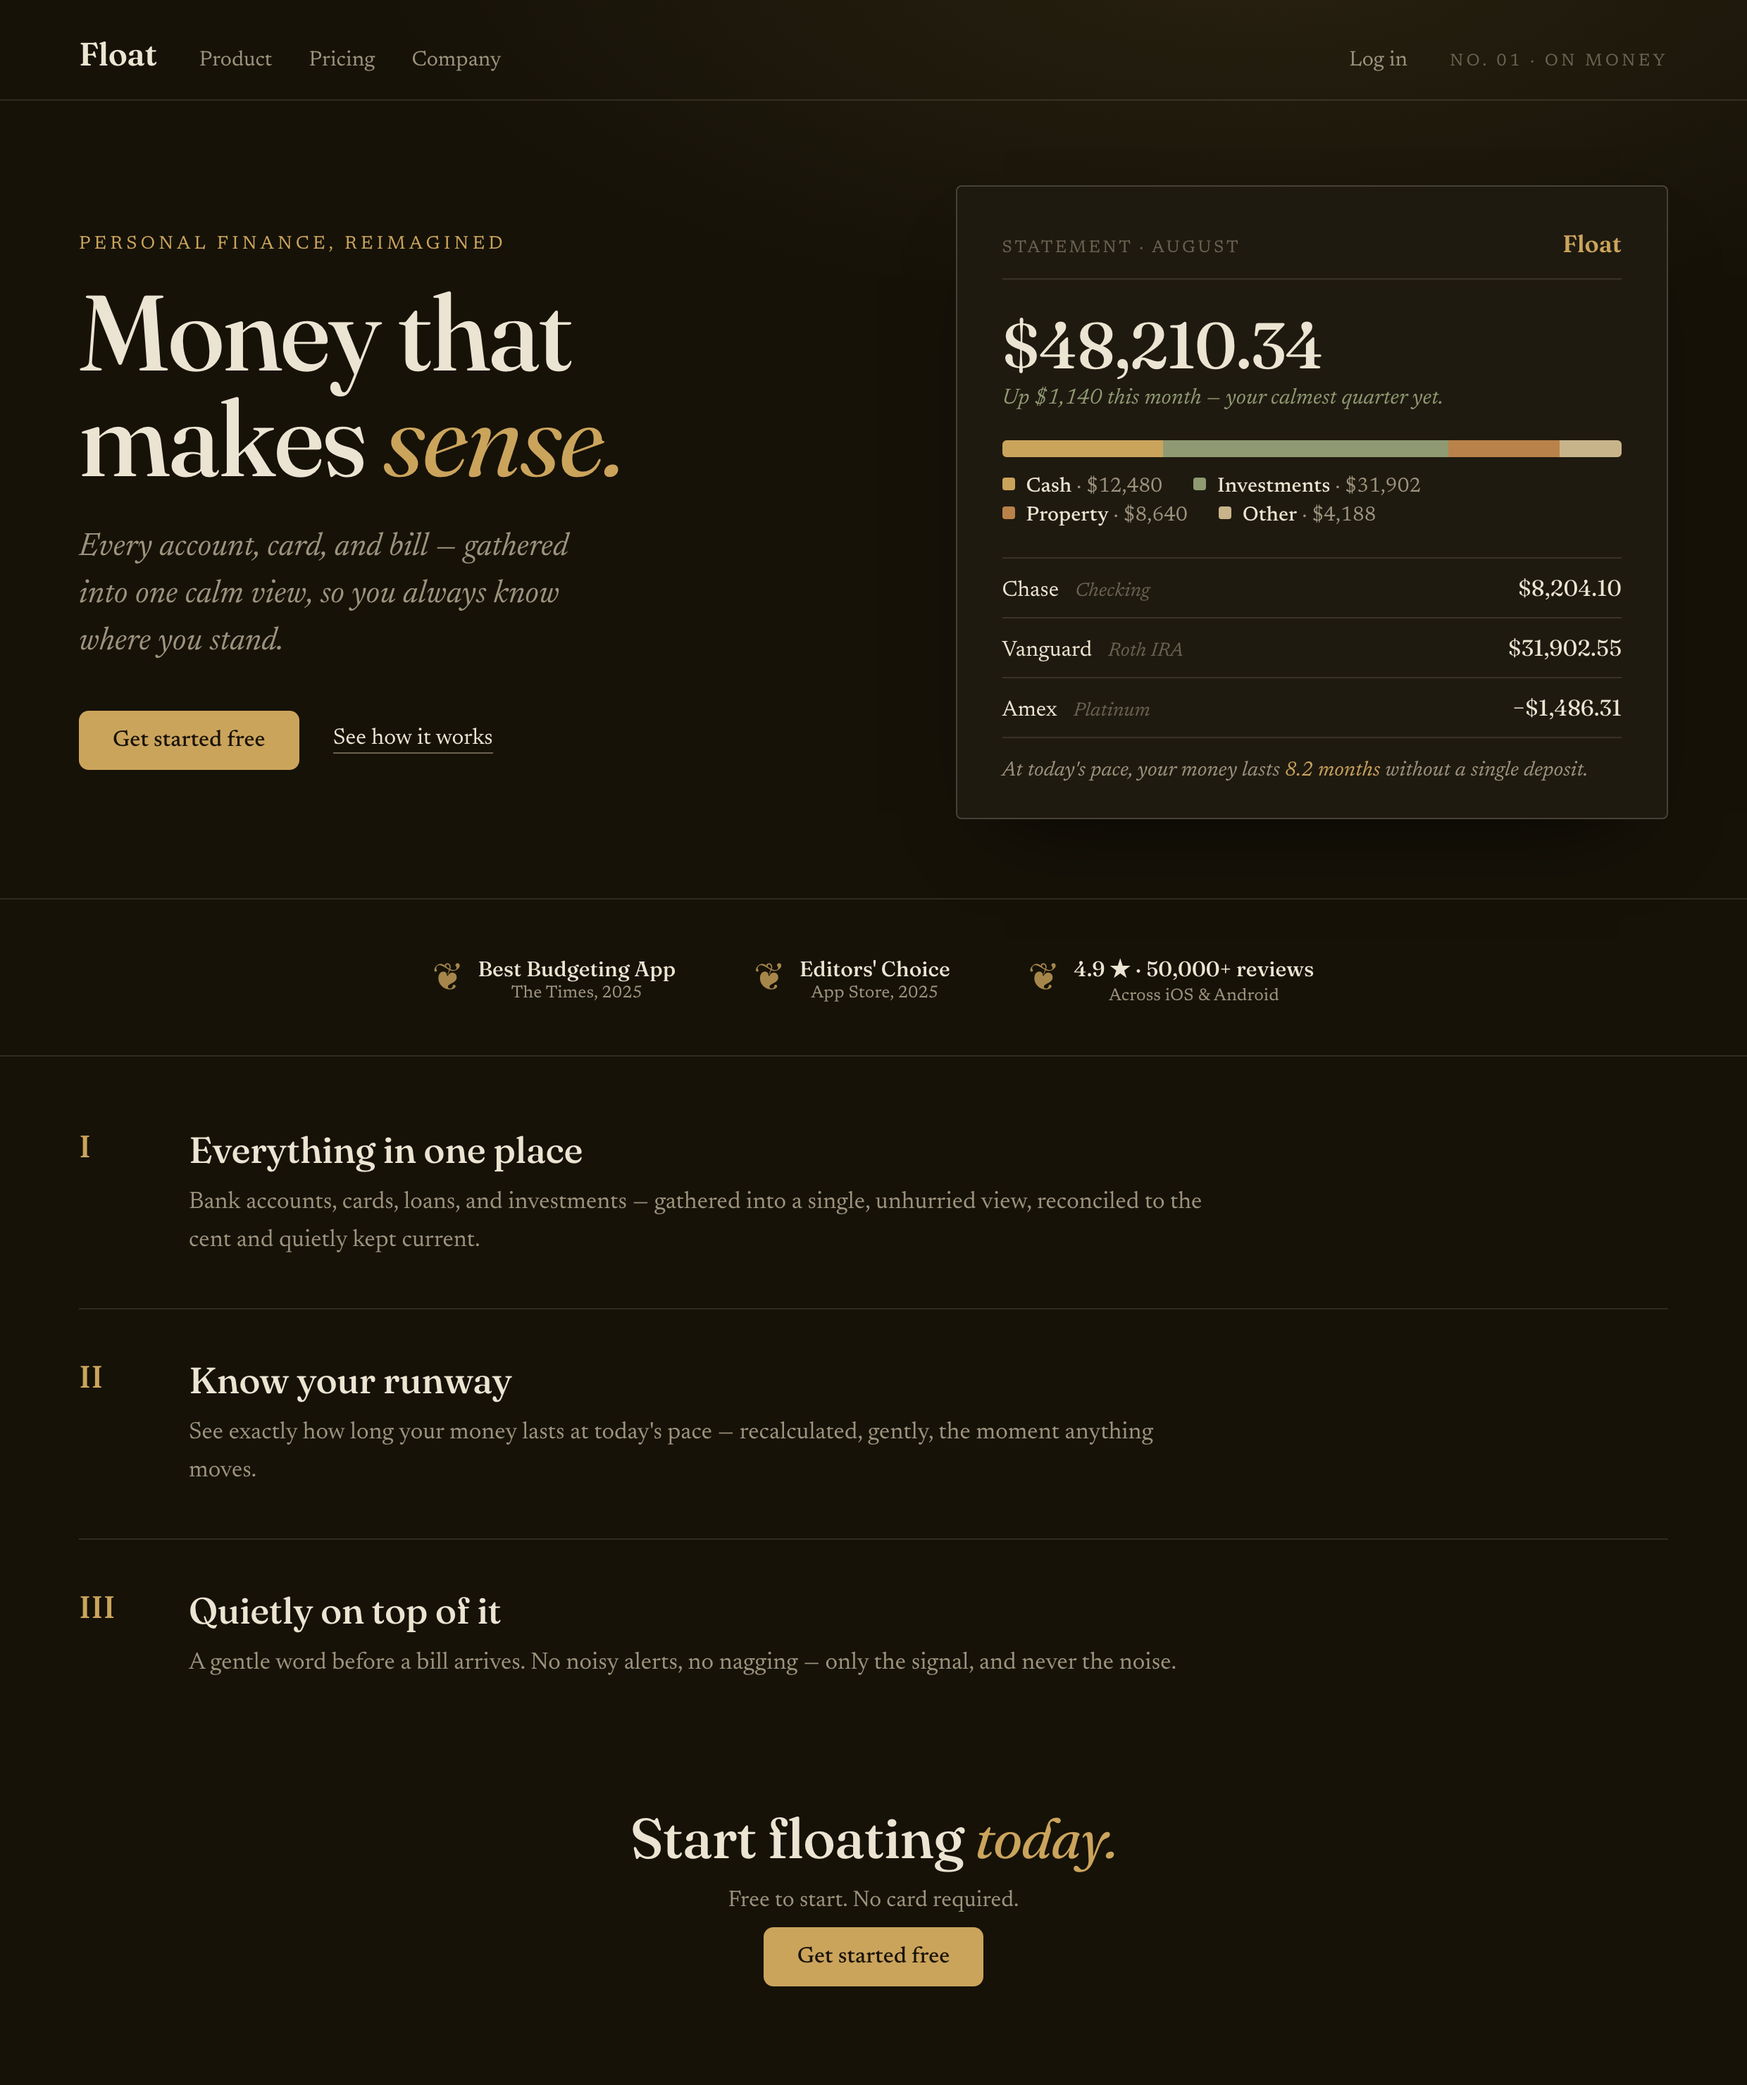
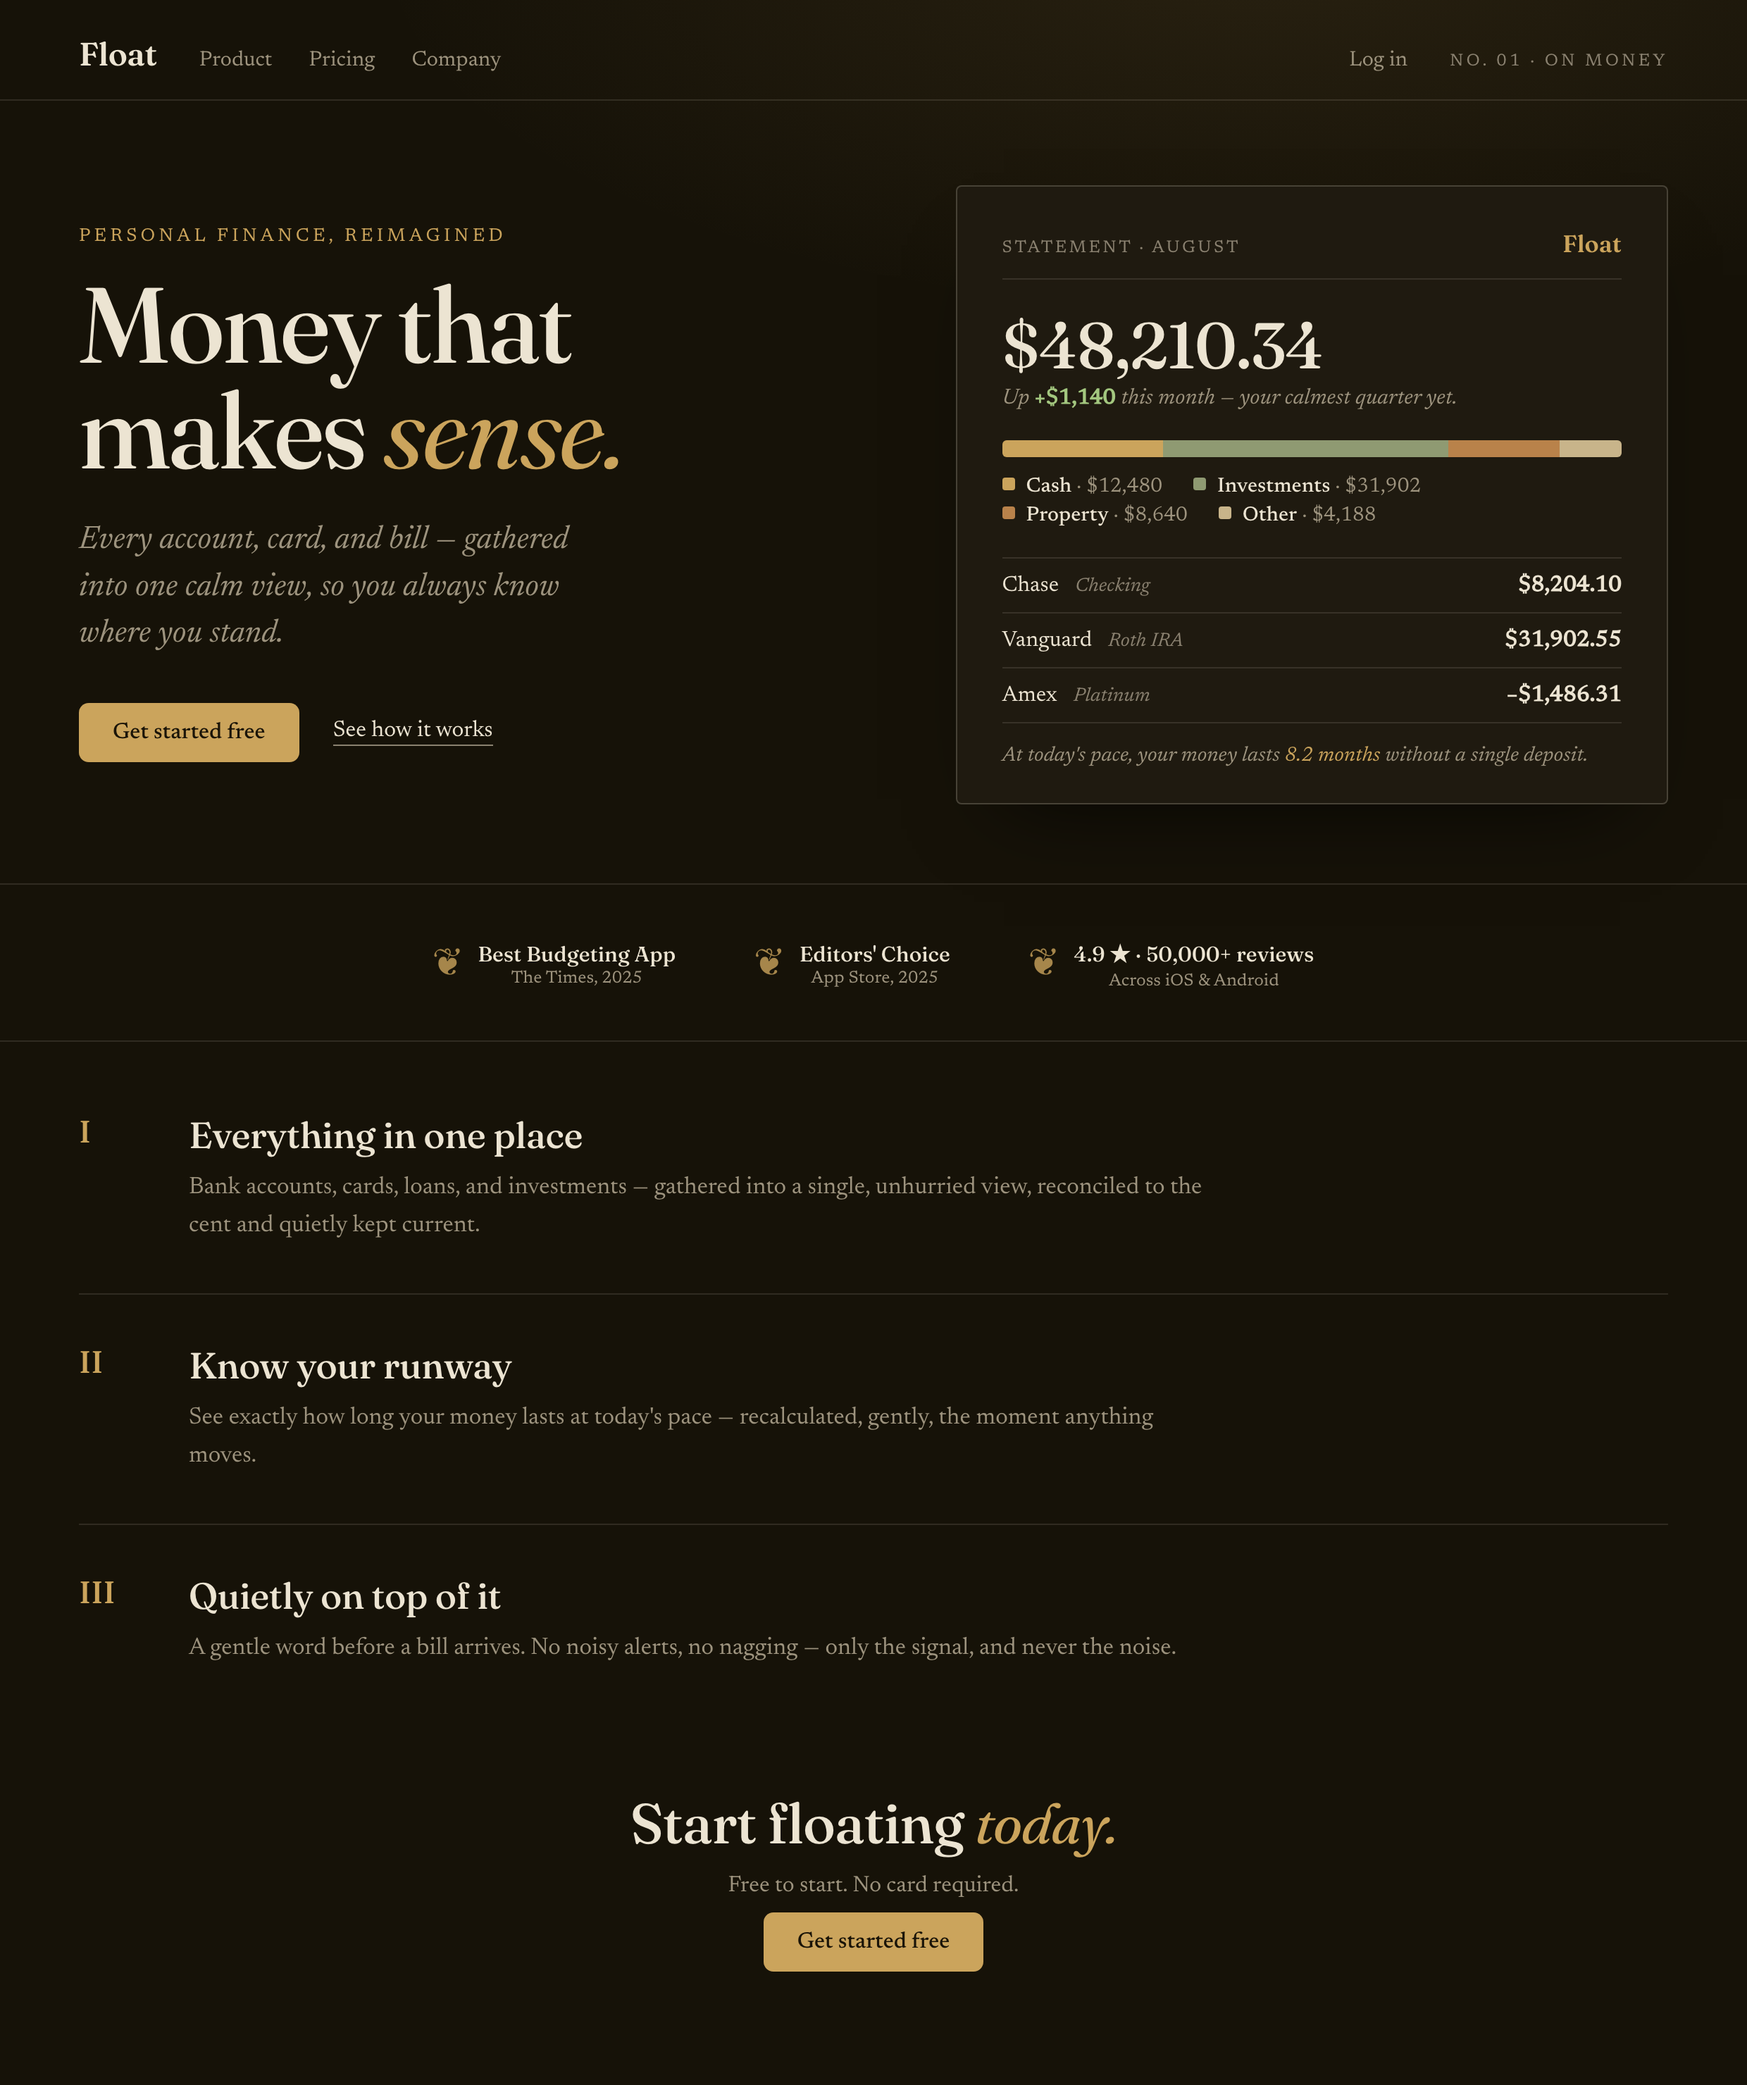
registers: critic remediation R1 (mechanical/a11y) — fix --faint WCAG fails (4 voices, measured AA), #e3fbe c CSS bug, phantom 450 weight, remove macOS traffic-dots + surviving chip status-dot (cool-technical), numbers off display faces in warm/dark statements, +sign on gain figures (no color-only s

diff --git a/registers/float-bold-expressive.html b/registers/float-bold-expressive.html
@@ -48,7 +48,7 @@
   .trust .star { color: #ffb020; }
   h1 { font-family: var(--disp); font-size: 104px; line-height: .92; letter-spacing: -.04em; font-weight: 800; margin: 26px 0 0; }
   h1 .hl { color: var(--accent-d); }
-  .sub { max-width: 600px; margin: 28px auto 0; font-size: 21px; line-height: 1.5; color: var(--muted); font-weight: 450; }
+  .sub { max-width: 600px; margin: 28px auto 0; font-size: 21px; line-height: 1.5; color: var(--muted); font-weight: 400; }
   .actions { display: flex; gap: 14px; justify-content: center; margin: 34px 0 0; }
   .btn-primary { font-size: 17px; font-weight: 600; padding: 16px 30px; border-radius: 999px; background: var(--accent); color: #07260f; }
   .btn-ghost { font-size: 17px; font-weight: 600; padding: 16px 30px; border-radius: 999px; border: 2px solid var(--ink); color: var(--ink); }
@@ -107,7 +107,7 @@
     </div>
 
     <div class="band">
-      <div class="feat"><div class="ic" style="background:#e3fbe c;background:#e3fbec"><svg width="22" height="22" viewBox="0 0 24 24" fill="none" stroke="#1faa50" stroke-width="2"><rect x="3" y="6" width="18" height="13" rx="2"/><path d="M3 10h18"/></svg></div><h3>Everything in one place</h3><p>Bank accounts, cards, loans, and investments — synced automatically, reconciled to the cent.</p></div>
+      <div class="feat"><div class="ic" style="background:#e3fbec"><svg width="22" height="22" viewBox="0 0 24 24" fill="none" stroke="#1faa50" stroke-width="2"><rect x="3" y="6" width="18" height="13" rx="2"/><path d="M3 10h18"/></svg></div><h3>Everything in one place</h3><p>Bank accounts, cards, loans, and investments — synced automatically, reconciled to the cent.</p></div>
       <div class="feat"><div class="ic" style="background:#efe9ff"><svg width="22" height="22" viewBox="0 0 24 24" fill="none" stroke="#6b4fd0" stroke-width="2"><path d="M4 19V9M10 19V5M16 19v-8M22 19h-20"/></svg></div><h3>Know your runway</h3><p>See exactly how long your money lasts at today's burn — recalculated the moment anything moves.</p></div>
       <div class="feat"><div class="ic" style="background:#fff0d6"><svg width="22" height="22" viewBox="0 0 24 24" fill="none" stroke="#d6911f" stroke-width="2"><path d="M18 8a6 6 0 00-12 0c0 7-3 9-3 9h18s-3-2-3-9M13.7 21a2 2 0 01-3.4 0"/></svg></div><h3>Quietly on top of it</h3><p>Gentle nudges before a bill hits. No noisy alerts, no nagging — just the signal, never the noise.</p></div>
     </div>

diff --git a/registers/float-dark-editorial.html b/registers/float-dark-editorial.html
@@ -24,7 +24,7 @@
     --panel: #1f1a10;
     --ink:   #ece4d2;          /* warm off-white */
     --muted: #9d937e;
-    --faint: #6a6150;
+    --faint: #8a8170;
     --rule:  rgba(236,228,210,.12);
     --rule2: rgba(236,228,210,.2);
     --gold:  #cBA45c; --gold: #cba45c;   /* the one scarce accent: brass */
@@ -60,7 +60,8 @@
   .st-head .lab { font-size: 12px; letter-spacing: .14em; text-transform: uppercase; color: var(--faint); }
   .st-head .mk { font-family: var(--disp); font-size: 17px; font-weight: 600; color: var(--gold); }
   .st-nw { font-family: var(--disp); font-size: 46px; font-weight: 500; letter-spacing: -.015em; margin: 18px 0 2px; }
-  .st-up { font-style: italic; font-size: 15.5px; color: var(--sage); }
+  .st-up { font-style: italic; font-size: 15.5px; color: var(--muted); }
+  .st-up .gain { font-style: normal; font-weight: 600; color: #a3c77f; }
   .alloc { margin: 22px 0 0; }
   .alloc .bar { display: flex; height: 12px; border-radius: 3px; overflow: hidden; }
   .alloc .bar i { display: block; height: 100%; }
@@ -72,7 +73,7 @@
   .rows .r { display: flex; align-items: baseline; justify-content: space-between; padding: 11px 0; border-bottom: 1px solid var(--rule); }
   .rows .r .n { font-size: 15.5px; color: var(--ink); }
   .rows .r .n small { color: var(--faint); font-style: italic; font-size: 13.5px; margin-left: 8px; }
-  .rows .r .a { font-family: var(--disp); font-size: 16px; font-variant-numeric: tabular-nums; }
+  .rows .r .a { font-family: var(--body); font-size: 16px; font-weight: 600; font-variant-numeric: tabular-nums; }
   .st-foot { font-style: italic; font-size: 14.5px; color: var(--muted); margin-top: 16px; }
   .st-foot em { color: var(--gold); font-style: italic; }
 
@@ -121,7 +122,7 @@
       <div class="statement">
         <div class="st-head"><span class="lab">Statement · August</span><span class="mk">Float</span></div>
         <div class="st-nw">$48,210.34</div>
-        <div class="st-up">Up $1,140 this month — your calmest quarter yet.</div>
+        <div class="st-up">Up <span class="gain">+$1,140</span> this month — your calmest quarter yet.</div>
         <div class="alloc">
           <div class="bar">
             <i style="width:26%;background:var(--gold)"></i><i style="width:46%;background:var(--sage)"></i><i style="width:18%;background:var(--bronze)"></i><i style="width:10%;background:var(--sand)"></i>

diff --git a/registers/float-warm-editorial.html b/registers/float-warm-editorial.html
@@ -25,7 +25,7 @@
     --card:  #fffdf8;
     --ink:   #221f18;
     --muted: #6b6358;
-    --faint: #a89e8c;
+    --faint: #736a5b;
     --rule:  #e4dcca;
     --clay:  #9a3b27;          /* the one scarce accent (oxblood) */
     --sage:  #87966a; --gold:#c7a25c; --sand:#d8c7a6;
@@ -60,7 +60,8 @@
   .st-head .lab { font-size: 12px; letter-spacing: .14em; text-transform: uppercase; color: var(--faint); }
   .st-head .mk { font-family: var(--disp); font-size: 17px; font-weight: 600; }
   .st-nw { font-family: var(--disp); font-size: 46px; font-weight: 500; letter-spacing: -.015em; margin: 18px 0 2px; }
-  .st-up { font-style: italic; font-size: 15.5px; color: var(--sage); }
+  .st-up { font-style: italic; font-size: 15.5px; color: var(--muted); }
+  .st-up .gain { font-style: normal; font-weight: 600; color: #4f6b3a; }
   .alloc { margin: 22px 0 0; }
   .alloc .bar { display: flex; height: 12px; border-radius: 3px; overflow: hidden; }
   .alloc .bar i { display: block; height: 100%; }
@@ -72,7 +73,7 @@
   .rows .r { display: flex; align-items: baseline; justify-content: space-between; padding: 11px 0; border-bottom: 1px solid var(--rule); }
   .rows .r .n { font-size: 15.5px; color: var(--ink); }
   .rows .r .n small { color: var(--faint); font-style: italic; font-size: 13.5px; margin-left: 8px; }
-  .rows .r .a { font-family: var(--disp); font-size: 16px; font-variant-numeric: tabular-nums; }
+  .rows .r .a { font-family: var(--body); font-size: 16px; font-weight: 500; font-variant-numeric: tabular-nums; }
   .st-foot { font-style: italic; font-size: 14.5px; color: var(--muted); margin-top: 16px; }
 
   /* laurels / awards strip */
@@ -122,7 +123,7 @@
       <div class="statement">
         <div class="st-head"><span class="lab">Statement · August</span><span class="mk">Float</span></div>
         <div class="st-nw">$48,210.34</div>
-        <div class="st-up">Up $1,140 this month — your calmest quarter yet.</div>
+        <div class="st-up">Up <span class="gain">+$1,140</span> this month — your calmest quarter yet.</div>
         <div class="alloc">
           <div class="bar">
             <i style="width:26%;background:var(--clay)"></i><i style="width:46%;background:var(--sage)"></i><i style="width:18%;background:var(--gold)"></i><i style="width:10%;background:var(--sand)"></i>

diff --git a/registers/float-cool-technical.html b/registers/float-cool-technical.html
@@ -28,7 +28,7 @@
     --line2: rgba(255,255,255,.13);
     --text:  #ededf0;
     --muted: #8b9096;
-    --faint: #585c63;
+    --faint: #868c96;
     --mint:  #6fe0c0;          /* the ONE accent, used sparingly */
     --pos:   #6fe0c0; --neg: #e08a8a;
     --font:  "Geist", -apple-system, BlinkMacSystemFont, sans-serif;
@@ -123,7 +123,7 @@
   /* floating chip overlapping the shot */
   .chip { position: absolute; right: -26px; top: 130px; width: 248px; background: var(--panel2); border: 1px solid var(--line2); border-radius: 12px; padding: 14px 15px; box-shadow: 0 24px 50px -20px rgba(0,0,0,.85); }
   .chip .ch { display: flex; align-items: center; gap: 8px; font-size: 12px; color: var(--muted); }
-  .chip .ch .dot { width: 6px; height: 6px; border-radius: 50%; background: var(--mint); }
+  .chip .ch svg { color: var(--faint); flex: 0 0 auto; }
   .chip .ct { font-size: 13.5px; margin-top: 9px; line-height: 1.45; }
   .chip .ct b { color: var(--text); }
   .chip .meta { font-family: var(--mono); font-size: 11px; color: var(--faint); margin-top: 9px; }
@@ -173,7 +173,6 @@
     <div class="shotwrap">
       <div class="shot">
         <div class="topbar">
-          <div class="dots"><i></i><i></i><i></i></div>
           <div class="search">Search or jump to… <span class="k">⌘K</span></div>
           <span class="sp"></span>
           <span class="pill">All accounts</span>
@@ -233,7 +232,7 @@
         </div>
       </div>
       <div class="chip">
-        <div class="ch"><span class="dot"></span> Upcoming bill</div>
+        <div class="ch"><svg width="13" height="13" viewBox="0 0 24 24" fill="none" stroke="currentColor" stroke-width="1.9"><rect x="3" y="5" width="18" height="16" rx="2"/><path d="M3 9h18M8 3v4M16 3v4"/></svg> Upcoming bill</div>
         <div class="ct"><b>Rent · $1,850</b> clears in 3 days. Your balance covers it with $4,210 to spare.</div>
         <div class="meta">Auto-detected · Aug 31</div>
       </div>

diff --git a/registers/float-cold-editorial.html b/registers/float-cold-editorial.html
@@ -26,7 +26,7 @@
     --card:  #ffffff;
     --ink:   #14161b;          /* cool near-black */
     --muted: #5c616b;          /* cool gray */
-    --faint: #9aa0ab;
+    --faint: #6b717b;
     --rule:  #e1e4ea;          /* cool hairline */
     --rule2: #cfd4dd;
     --accent:#1f3f86;          /* the one scarce accent: cold ink-blue */
